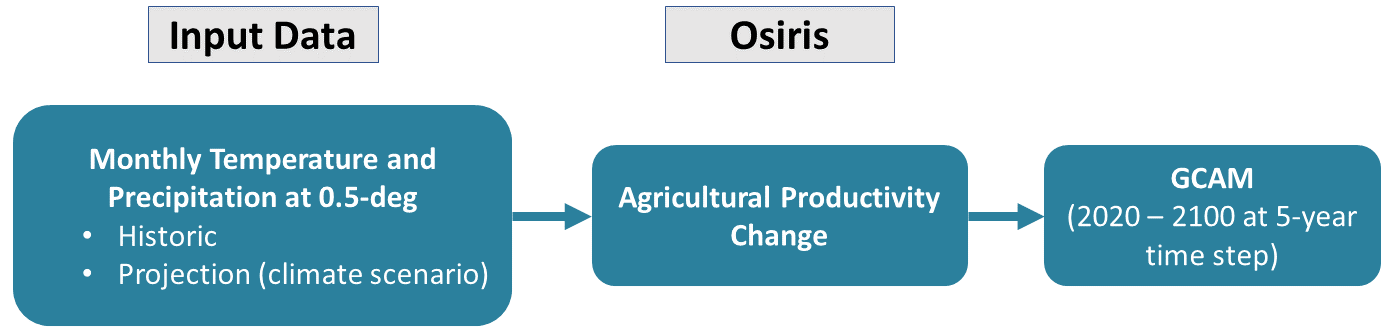
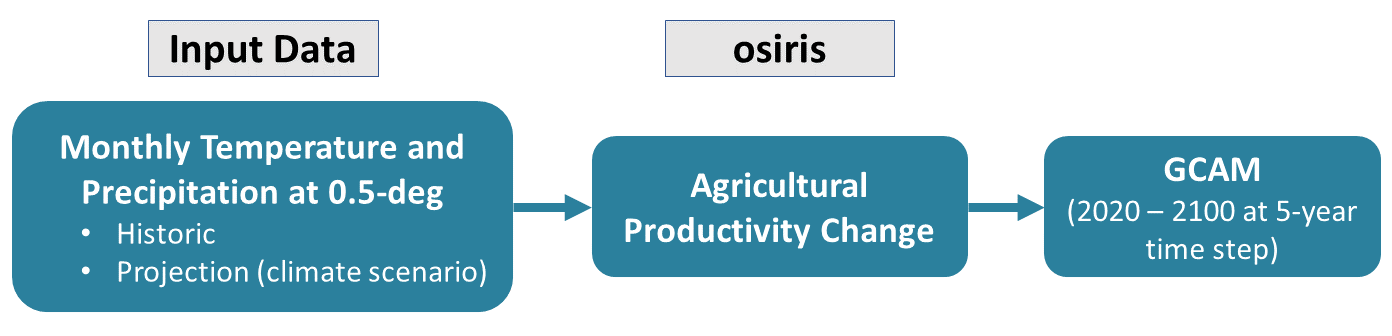
Updated figure and caption

diff --git a/paper/paper.md b/paper/paper.md
@@ -36,7 +36,7 @@ bibliography: paper.bib
 
 `osiris` is an R package that couples climate change projections with socioeconomic agricultural assumptions used in the Global Change Analysis Model (GCAM). Specifically, this package allows users to examine the implications of changes to regional or global temperature and precipitation for agricultural crop production using GCAM. `osiris` is designed for modularity to allow the user to explore alternative climate projections, crop model emulators, and parameters relating to agricultural yield. The development of this package is part of a broader effort to to provide reproducible, updatable data processing for analyzing the impacts of climate [@Jones2023] and socioeconomic change on the coevolution of future water, energy, and land systems using GCAM. Figure 1 shows a generic workflow where climate data are processed by `osiris` and a set of agricultural productivity change files are generated as inputs for GCAM.
 
-![Figure 1: Climate data reflecting a range of Representative Concentration Pathways (RCPs) and climate model uncertainty (where "hotter" and "cooler" represent diversity in climate sensitivity of the CMIP6 GCMs) are combined with Shared Socioeconomic Pathways (SSPs) to generate agricultural productivity change inputs for GCAM.](osiris_workflow.png)
+![Figure 1: Climate data are processed to generate agricultural productivity change inputs for GCAM.](osiris_workflow.png)
 
 # Statement of need
 
